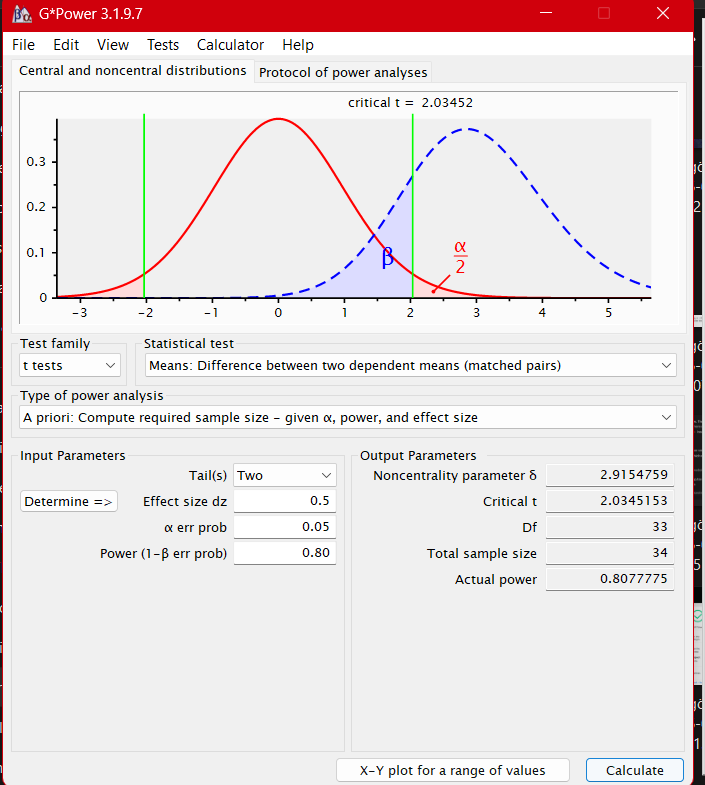
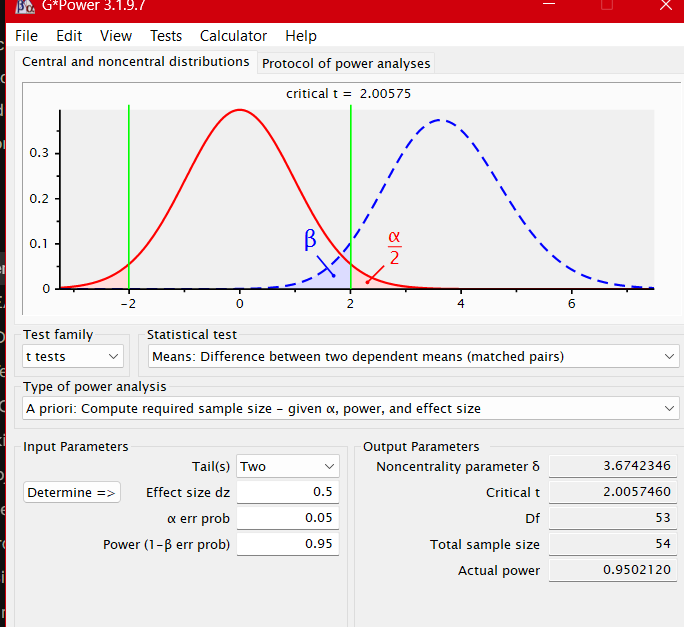
README: örnek ekran görüntüleri; 01/02 görüntü numaraları CSV ile hizalandı
Claude-Session: https://claude.ai/code/session_01CvbUGQnqAY9mBztuAr1W6d

diff --git a/README.md b/README.md
@@ -201,6 +201,13 @@ python -m pytest -q tests      # 113 test geçer, 1 bilinen sapma xfail (≈ 2 d
 
 Sayılar 5e-8 hassasiyetle eşleşir (G\*Power 7 hane gösterir). Kaynak veriler [oracle/oracle_vectors.csv](oracle/oracle_vectors.csv), her satırın ekran görüntüsü `oracle/screenshots/` altında. 22 Ekim'de toplanan 5 kenar vektörü (dz = 0.001, 20, 21, 0.00001 ve alfa = 0.2; biri hata, biri bilinen sapma) [oracle/oracle_boundary.csv](oracle/oracle_boundary.csv) ve `oracle/screenshots_boundary/` altındadır. Tam rapor: [tests/CONFORMANCE.md](tests/CONFORMANCE.md).
 
+Üç örnek G\*Power ekranı (sol: a priori, orta: G\*Power'ın hata penceresi, sağ: sınır dışı dz):
+
+| Vektör 2: N = 34 | Vektör 28: dz = 0 hata | Kenar b3: dz = 21 hata |
+|---|---|---|
+| <img src="oracle/screenshots/02.png" width="260"> | <img src="oracle/screenshots/28.png" width="260"> | <img src="oracle/screenshots_boundary/b03.png" width="260"> |
+
+
 <details>
 <summary><b>Bir test neden "kendi kendini kandırmaz"?</b></summary>
 
